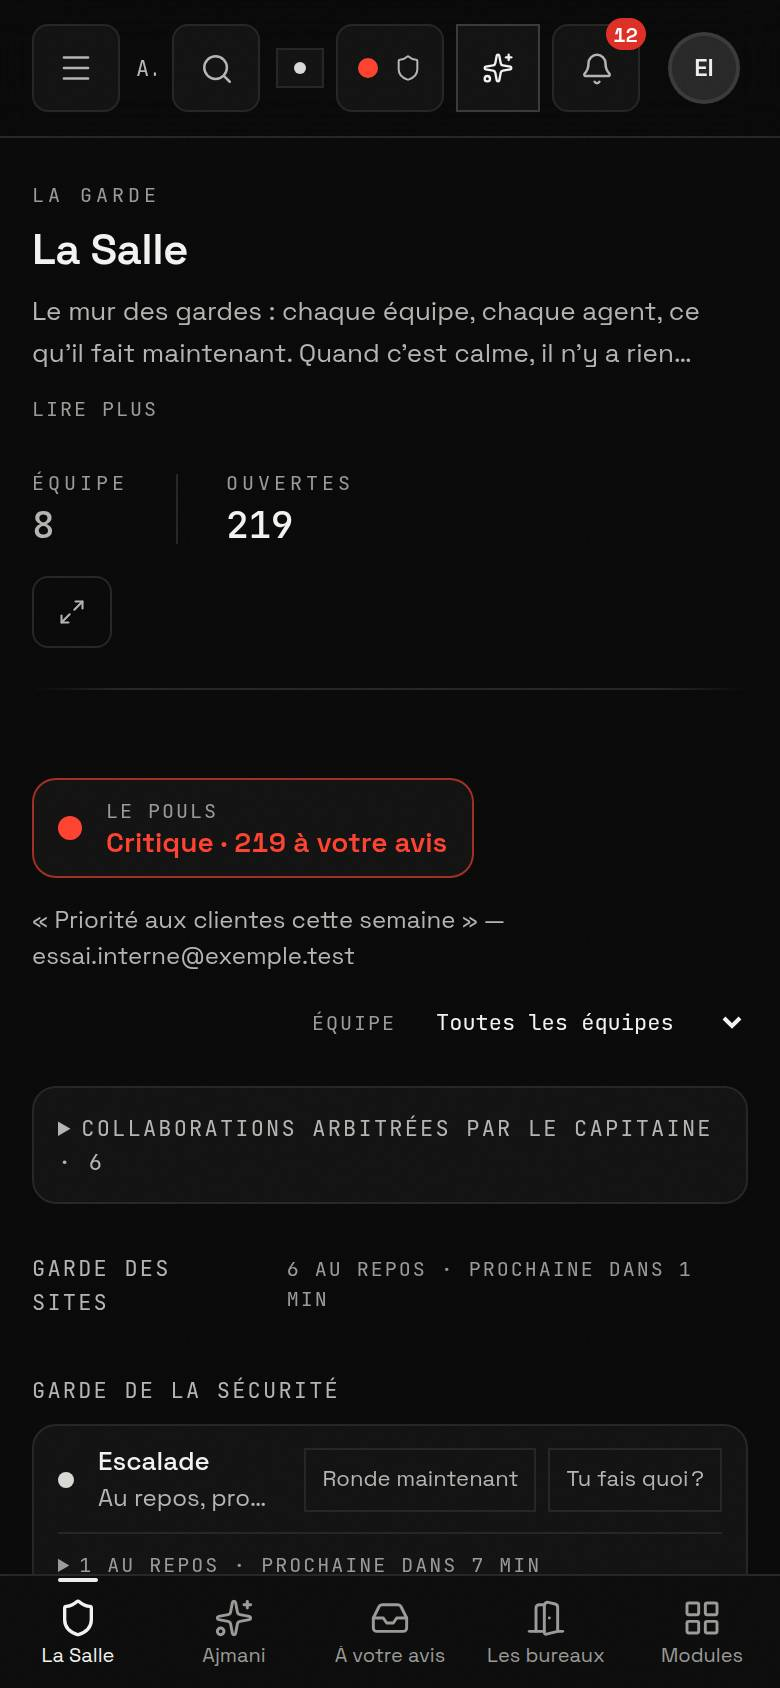
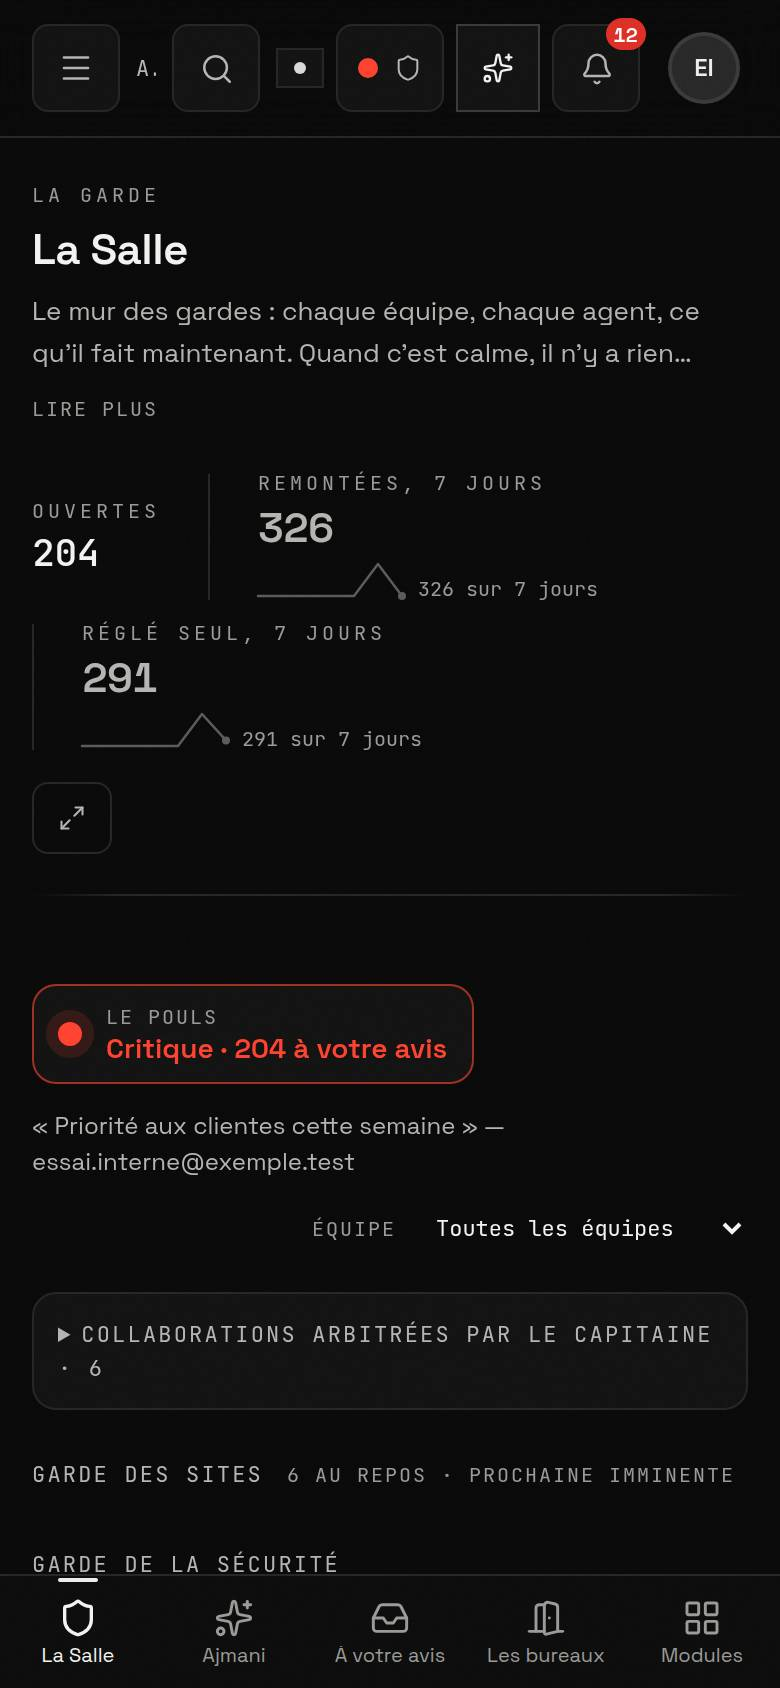
L'Automatique, Bloc 2 (poste) : l'anneau respire, les chiffres de la Salle ont une mémoire, le mouvement dit quelque chose
- PoulsBadge et EtatPoint : le souffle des Signes Vitaux au lieu d'un ping radar ; la couleur glisse quand l'état change
- Le point « en ligne » d'un site bat comme « à jour » au lieu de pinguer en boucle
- Salle : « Remontées, 7 jours » et « Réglé seul, 7 jours » avec leur courbe, comptées par le serveur, jamais simulées (serieFluxComptee, check:vitaux)
- Ajmani : une bulle arrive d'un glissement ; À votre avis : un dossier décidé se replie, « Décidées à l'instant » compte ; prefers-reduced-motion respecté
- La Salle se souvient de l'équipe regardée
- docs/automatique-2026-09-05.md : recensement des décisions prises pour vous, captures après

Claude-Session: https://claude.ai/code/session_01BEf9qY21FAUuZ4ogxRY3s2

diff --git a/src/screens/garde/GardePileScreen.tsx b/src/screens/garde/GardePileScreen.tsx
@@ -1,5 +1,7 @@
 import React, { useCallback, useEffect, useState } from 'react';
 import { Link } from 'react-router-dom';
+import { AnimatePresence, motion, useReducedMotion } from 'framer-motion';
+import { AnimatedCounter } from '../../components/AnimatedCounter';
 import { ScreenHeader } from '../../components/ScreenHeader';
 import { Depliable } from '../../components/Depliable';
 import { GraviteChip } from '../../components/garde/GardeUi';
@@ -31,6 +33,11 @@ export function GardePileScreen() {
   const [libre, setLibre] = useState<Record<string, string>>({});
   /** Ce qu'Ajmani vient de faire — en tête, parce qu'un dossier décidé disparaît de la liste avec sa carte. */
   const [message, setMessage] = useState<string | null>(null);
+  /* La progression visible : ce que VOUS avez décidé depuis l'ouverture de l'écran. Le compteur compte — une micro-satisfaction honnête, jamais un score. */
+  const [decideesSeance, setDecideesSeance] = useState(0);
+  const mouvementReduit = useReducedMotion();
+  /* Un dossier décidé se retire d'un souffle au lieu de disparaître d'un coup — et sans mouvement demandé, il disparaît simplement. */
+  const sortie = mouvementReduit ? {} : { initial: { opacity: 0, y: 6 }, animate: { opacity: 1, y: 0 }, exit: { opacity: 0, height: 0, marginBottom: -12, overflow: 'hidden' as const }, transition: { duration: 0.26, ease: 'easeOut' as const } };
   const charger = useCallback(async () => {
     try {
       if (onglet === 'ouverte') {
@@ -47,20 +54,22 @@ export function GardePileScreen() {
   }, [onglet]);
   useEffect(() => { void charger(); }, [charger]);
   useEffect(() => garde.onGarde((trame) => { if (trame.type.startsWith('garde:remontee') || trame.type === 'garde:mandat') void charger(); }), [charger]);
-  const decider = async (id: string, decision: string) => { await garde.decider(id, decision); await charger(); };
+  const decider = async (id: string, decision: string) => { await garde.decider(id, decision); setDecideesSeance((n) => n + 1); await charger(); };
   const deciderDossier = async (d: GardeDossier, decision: string) => {
     const r = await garde.deciderDossier(d.id, decision);
+    setDecideesSeance((n) => n + r.n);
     setMessage(t('garde.pile.decideDossier', { n: r.n }));
     await charger();
   };
   const confier = async (d: GardeDossier) => {
     if (!d.recommandation) return;
     const r = await garde.donnerMandat({ agent: d.agent, famille: d.famille, decision: d.recommandation });
+    setDecideesSeance((n) => n + r.appliquees);
     setMessage(t('garde.chef.decidezSeulFait', { decision: d.recommandation ?? '', n: r.appliquees, chef: NOM_DU_CHEF }));
     await charger();
   };
 
-  const stats = compte ? [{ label: t('garde.pile.ouvertes'), value: compte.ouvertes, emphasis: compte.critiques > 0 }, { label: t('garde.pile.dossiers'), value: pile?.compte.dossiers ?? '—' }, { label: t('garde.gravite.critique'), value: compte.critiques, emphasis: compte.critiques > 0 }, { label: t('garde.pile.decidees'), value: compte.decidees }] : [];
+  const stats = compte ? [{ label: t('garde.pile.ouvertes'), value: compte.ouvertes, emphasis: compte.critiques > 0 }, { label: t('garde.pile.dossiers'), value: pile?.compte.dossiers ?? '—' }, { label: t('garde.gravite.critique'), value: compte.critiques, emphasis: compte.critiques > 0 }, { label: t('garde.pile.decidees'), value: compte.decidees }, ...(decideesSeance > 0 ? [{ label: t('garde.pile.decideesSeance'), value: <AnimatedCounter value={decideesSeance} /> }] : [])] : [];
 
   return (
     <section className="flex flex-col gap-5">
@@ -79,8 +88,9 @@ export function GardePileScreen() {
         <>
           {pile && pile.dossiers.length === 0 && !erreur && <p className="font-mono text-xs text-text-muted">{t('garde.pile.vide')}</p>}
           <ol className="flex flex-col gap-3" aria-label={t('garde.pile.dossiers')}>
+            <AnimatePresence initial={false}>
             {pile?.dossiers.map((d) => (
-              <li key={d.id} data-dossier={d.famille} className={`flex flex-col gap-2 rounded-xl border bg-surface p-4 ${d.chefDeFile ? 'border-border' : 'ml-4 border-border/70 md:ml-8'}`}>
+              <motion.li key={d.id} {...sortie} data-dossier={d.famille} className={`flex flex-col gap-2 rounded-xl border bg-surface p-4 ${d.chefDeFile ? 'border-border' : 'ml-4 border-border/70 md:ml-8'}`}>
                 <div className="flex flex-wrap items-center gap-2">
                   <GraviteChip gravite={d.gravite} />
                   <span className="font-mono text-[10px] text-text-muted">{t('garde.pile.par', { agent: d.agent })}</span>
@@ -111,8 +121,9 @@ export function GardePileScreen() {
                   {d.tache && <p className="font-mono text-[10px] text-text-muted">{t('garde.pile.tache')}</p>}
                   {d.chefDeFile && d.memeOrg > 0 && <p className="font-mono text-[10px] text-text-muted">{t('garde.pile.aussi')} · {d.memeOrg}</p>}
                 </div>
-              </li>
+              </motion.li>
             ))}
+            </AnimatePresence>
           </ol>
         </>
       ) : (

diff --git a/src/screens/garde/GardeSalleScreen.tsx b/src/screens/garde/GardeSalleScreen.tsx
@@ -5,6 +5,7 @@ import { StaggerGroup, StaggerItem } from '../../components/Stagger';
 import { AgentTuile, PoulsBadge } from '../../components/garde/GardeUi';
 import { garde } from '../../lib/garde';
 import { relativeTime, dansTemps } from '../../lib/time';
+import { serieFluxComptee } from '../../lib/serieVitale';
 import { useLangue } from '../../i18n';
 import type { GardeAgent, GardeJournalEntree, GardeSalle } from '../../shared/garde';
 
@@ -22,7 +23,9 @@ export function GardeSalleScreen() {
   const [salle, setSalle] = useState<GardeSalle | null>(null);
   const [journal, setJournal] = useState<GardeJournalEntree[]>([]);
   const [erreur, setErreur] = useState<string | null>(null);
-  const [equipe, setEquipe] = useState<string>('toutes');
+  /* L'équipe regardée hier est l'équipe regardée aujourd'hui : le filtre se souvient, personne ne le rechoisit à chaque ouverture. */
+  const [equipe, setEquipeBrut] = useState<string>(() => { try { return window.localStorage.getItem('amn.garde.salle.equipe') || 'toutes'; } catch { return 'toutes'; } });
+  const setEquipe = (e: string) => { setEquipeBrut(e); try { window.localStorage.setItem('amn.garde.salle.equipe', e); } catch { /* sans mémoire locale, le filtre repart de « toutes » */ } };
   const [plein, setPlein] = useState(false);
 
   const charger = useCallback(async () => {
@@ -51,6 +54,19 @@ export function GardeSalleScreen() {
     return () => document.removeEventListener('fullscreenchange', onChange);
   }, []);
 
+  /* Les chiffres à mémoire : « ouvertes » est un stock sans historique (nombre seul) ; les remontées et ce que la Garde a réglé seule sont des flux, comptés par jour côté serveur. */
+  const stats = useMemo(() => {
+    if (!salle) return [];
+    const maintenant = new Date();
+    const remontees = salle.series ? serieFluxComptee(salle.series.remontees, 7, maintenant) : undefined;
+    const reglees = salle.series ? serieFluxComptee(salle.series.reglees, 7, maintenant) : undefined;
+    return [
+      { label: t('garde.pile.ouvertes'), value: salle.pouls.compte.ouvertes, emphasis: salle.pouls.compte.critiques > 0 },
+      { label: t('garde.salle.remontees7'), value: remontees?.delta ?? '—', brut: remontees?.delta, serie: remontees, title: t('garde.salle.remontees7.aide') },
+      { label: t('garde.salle.reglees7'), value: reglees?.delta ?? '—', brut: reglees?.delta, serie: reglees, title: t('garde.salle.reglees7.aide') },
+    ];
+  }, [salle, t]);
+
   const equipes = useMemo(() => (salle ? salle.equipes.filter((e) => equipe === 'toutes' || e.key === equipe) : []), [salle, equipe]);
   // Les collaborations se lisent à part : le journal des rondes les enterrerait en quelques minutes.
   const [collaborations, setCollaborations] = useState<GardeJournalEntree[]>([]);
@@ -67,7 +83,7 @@ export function GardeSalleScreen() {
 
   return (
     <section className="flex flex-col gap-5" id="garde-salle">
-      <ScreenHeader eyebrow={t('garde.surtitre')} title={t('garde.salle.titre')} description={t('garde.salle.description')} stats={salle ? [{ label: t('garde.salle.equipe'), value: salle.equipes.length }, { label: t('garde.pile.ouvertes'), value: salle.pouls.compte.ouvertes, emphasis: salle.pouls.compte.critiques > 0 }] : []}>
+      <ScreenHeader eyebrow={t('garde.surtitre')} title={t('garde.salle.titre')} description={t('garde.salle.description')} stats={stats}>
         <button
           type="button"
           onClick={() => { const el = document.getElementById('garde-salle'); if (document.fullscreenElement) void document.exitFullscreen(); else void el?.requestFullscreen?.(); }}

diff --git a/src/components/garde/GardeUi.tsx b/src/components/garde/GardeUi.tsx
@@ -27,8 +27,9 @@ export function EtatPoint({ etat, actif = true, size = 8 }: { etat: GardeAgent['
   const classe = !actif ? 'bg-text-muted' : etat === 'ronde' ? 'bg-accent' : etat === 'trouve' ? 'bg-warning' : etat === 'echec' ? 'bg-danger' : 'bg-success';
   return (
     <span className="relative inline-flex flex-shrink-0" style={{ width: size, height: size }} aria-hidden>
-      {actif && etat === 'ronde' && <span className={`absolute inset-0 rounded-full ${classe} opacity-60 motion-safe:animate-ping`} />}
-      <span className={`relative inline-flex h-full w-full rounded-full ${classe}`} />
+      {/* En ronde, le point respire (le souffle des Signes Vitaux) ; il ne « pingue » pas — un radar qui balaie dit « démo », un souffle dit « vivant ». */}
+      {actif && etat === 'ronde' && <span className={`sv-souffle-tendu absolute -inset-1 rounded-full ${classe}`} />}
+      <span className={`relative inline-flex h-full w-full rounded-full transition-colors duration-700 ${classe}`} />
     </span>
   );
 }
@@ -39,10 +40,11 @@ export function PoulsBadge({ pouls, compact = false }: { pouls: GardePouls | nul
   const classe = pouls.niveau === 'critique' ? 'border-danger/60 text-danger' : pouls.niveau === 'attention' ? 'border-warning/60 text-text-primary' : 'border-success/50 text-text-primary';
   const point = pouls.niveau === 'critique' ? 'bg-danger' : pouls.niveau === 'attention' ? 'bg-warning' : 'bg-success';
   return (
-    <div className={`flex items-center gap-3 rounded-xl border bg-surface px-3 py-2 ${classe}`} aria-label={t('garde.pouls.titre')}>
+    <div className={`flex items-center gap-3 rounded-xl border bg-surface px-3 py-2 transition-colors duration-700 ${classe}`} aria-label={t('garde.pouls.titre')} data-pouls={pouls.niveau}>
+      {/* L'anneau qui respire : quatre secondes au calme, plus court quand quelque chose attend — la même respiration que le rail. La couleur glisse quand l'état change au lieu de sauter. */}
       <span className="relative inline-flex h-3 w-3" aria-hidden>
-        {pouls.niveau !== 'calme' && <span className={`absolute inset-0 rounded-full ${point} opacity-50 motion-safe:animate-ping`} />}
-        <span className={`relative inline-flex h-3 w-3 rounded-full ${point}`} />
+        <span className={`absolute -inset-1.5 rounded-full transition-colors duration-700 ${point} ${pouls.niveau === 'calme' ? 'sv-souffle-calme' : 'sv-souffle-tendu'}`} />
+        <span className={`relative inline-flex h-3 w-3 rounded-full transition-colors duration-700 ${point}`} />
       </span>
       <div className="min-w-0">
         <p className="font-mono text-[10px] uppercase tracking-widest text-text-muted">{t('garde.pouls.titre')}</p>

diff --git a/src/screens/garde/GardeAjmaniScreen.tsx b/src/screens/garde/GardeAjmaniScreen.tsx
@@ -1,5 +1,6 @@
 import React, { useCallback, useEffect, useRef, useState } from 'react';
 import { Link } from 'react-router-dom';
+import { motion, useReducedMotion } from 'framer-motion';
 import { ScreenHeader } from '../../components/ScreenHeader';
 import { PoulsBadge } from '../../components/garde/GardeUi';
 import { garde } from '../../lib/garde';
@@ -38,6 +39,9 @@ export function GardeAjmaniScreen() {
   const [busy, setBusy] = useState(false);
   const [catalogue, setCatalogue] = useState(false);
   const bas = useRef<HTMLDivElement | null>(null);
+  /* Une bulle qui arrive glisse d'un souffle ; sans mouvement demandé, elle apparaît simplement. */
+  const mouvementReduit = useReducedMotion();
+  const arrivee = mouvementReduit ? {} : { initial: { opacity: 0, y: 6 }, animate: { opacity: 1, y: 0 }, transition: { duration: 0.22, ease: 'easeOut' as const } };
 
   const charger = useCallback(async () => {
     try {
@@ -135,7 +139,7 @@ export function GardeAjmaniScreen() {
               </span>
             </li>
             {fil.map((m, i) => (
-              <li key={`f${i}`} className={`max-w-[85%] whitespace-pre-line rounded-lg border px-3 py-2 text-[13px] leading-relaxed ${m.de === 'moi' ? 'self-end border-border-strong bg-bg text-text-primary' : 'self-start border-border bg-surface text-text-primary'}`} data-chef-reponse={m.de === 'chef' ? '' : undefined}>
+              <motion.li key={`f${i}`} {...arrivee} className={`max-w-[85%] whitespace-pre-line rounded-lg border px-3 py-2 text-[13px] leading-relaxed ${m.de === 'moi' ? 'self-end border-border-strong bg-bg text-text-primary' : 'self-start border-border bg-surface text-text-primary'}`} data-chef-reponse={m.de === 'chef' ? '' : undefined}>
                 {m.texte}
                 {m.confirmation && m.original && (
                   <span className="mt-2 flex gap-2">
@@ -143,7 +147,7 @@ export function GardeAjmaniScreen() {
                     <button type="button" onClick={() => setFil((f) => [...f, { de: 'chef', texte: t('garde.bureau.annuler') }])} className="border border-border px-2.5 py-1 text-xs text-text-muted">{t('garde.bureau.annuler')}</button>
                   </span>
                 )}
-              </li>
+              </motion.li>
             ))}
           </ol>
         )}

diff --git a/scripts/check-vitaux.ts b/scripts/check-vitaux.ts
@@ -50,11 +50,12 @@ interface Serie {
   nature: 'flux' | 'stock';
 }
 
-const { cleJour, derniersJours, serieFlux, serieStock, phraseDelta, litLeNombre, traceSerie } =
+const { cleJour, derniersJours, serieFlux, serieFluxComptee, serieStock, phraseDelta, litLeNombre, traceSerie } =
   await loadFromSrc<{
     cleJour: (d: Date) => string;
     derniersJours: (n: number, m: Date) => string[];
     serieFlux: (dates: unknown[], jours: number, m: Date) => Serie;
+    serieFluxComptee: (comptes: Record<string, number>, jours: number, m: Date) => Serie;
     serieStock: (dates: unknown[], jours: number, m: Date) => Serie;
     phraseDelta: (s: Serie) => string;
     litLeNombre: (n: number) => string;
@@ -105,6 +106,16 @@ dit('un flux compte par jour, dans la fenêtre seulement', () => {
   assert.equal(s.points[6].valeur, 2, 'deux aujourd’hui');
   assert.equal(s.points[3].valeur, 1, 'un le 12');
   assert.equal(s.delta, 3, 'le delta est le total de la fenêtre — le 1er mars n’y est pas');
+});
+
+dit('un flux déjà compté par le serveur garde la fenêtre : jour absent = zéro, hors fenêtre = rien', () => {
+  const s = serieFluxComptee({ '2026-03-15': 2, '2026-03-12': 1, '2026-03-01': 9, '2026-03-13': -3 }, 7, M);
+  assert.equal(s.points.length, 7);
+  assert.equal(s.points[6].valeur, 2, 'deux aujourd’hui');
+  assert.equal(s.points[3].valeur, 1, 'un le 12');
+  assert.equal(s.points[4].valeur, 0, 'un compte négatif ne se dessine pas');
+  assert.equal(s.delta, 3, 'le 1er mars n’est pas dans la fenêtre');
+  assert.equal(s.nature, 'flux');
 });
 
 dit('une date invalide ne compte pas — plutôt manquer que mentir', () => {

diff --git a/src/lib/serieVitale.ts b/src/lib/serieVitale.ts
@@ -95,6 +95,25 @@ export function serieFlux(
 }
 
 /**
+ * FLUX DÉJÀ COMPTÉ — quand le serveur a fait le compte par jour (la Garde ne
+ * renvoie pas cent mille dates, elle renvoie sept nombres). Même fenêtre, même
+ * honnêteté : un jour absent vaut zéro, un jour hors fenêtre n'existe pas.
+ */
+export function serieFluxComptee(
+  comptes: Readonly<Record<string, number>>,
+  jours: number,
+  maintenant: Date,
+): SerieVitale {
+  const fenetre = derniersJours(jours, maintenant);
+  const points = fenetre.map((jour) => ({ jour, valeur: Math.max(0, Math.round(Number(comptes[jour]) || 0)) }));
+  return {
+    points,
+    delta: points.reduce((somme, p) => somme + p.valeur, 0),
+    nature: 'flux',
+  };
+}
+
+/**
  * STOCK — le cumul des créations, jour par jour.
  *
  * Chaque point vaut « combien existaient à la fin de ce jour-là », en ne

diff --git a/src/i18n/fr.ts b/src/i18n/fr.ts
@@ -1803,6 +1803,11 @@ export const fr: Dictionnaire = {
   'garde.salle.pleinEcran': 'Plein écran',
   'garde.salle.quitterPleinEcran': 'Quitter le plein écran',
   'garde.salle.equipe': 'Équipe',
+  'garde.salle.remontees7': 'Remontées, 7 jours',
+  'garde.salle.remontees7.aide': 'Ce que la Garde vous a soumis ces sept derniers jours, jour par jour.',
+  'garde.salle.reglees7': 'Réglé seul, 7 jours',
+  'garde.salle.reglees7.aide': 'Ce que la Garde a réglé sans vous ces sept derniers jours, jour par jour.',
+  'garde.pile.decideesSeance': 'Décidées à l’instant',
   'garde.salle.toutes': 'Toutes les équipes',
   'garde.salle.derniere': 'Dernière ronde',
   'garde.salle.prochaine': 'Prochaine',

diff --git a/src/i18n/en.ts b/src/i18n/en.ts
@@ -1810,6 +1810,11 @@ export const en = {
   'garde.salle.pleinEcran': 'Full screen',
   'garde.salle.quitterPleinEcran': 'Leave full screen',
   'garde.salle.equipe': 'Team',
+  'garde.salle.remontees7': 'Raised, 7 days',
+  'garde.salle.remontees7.aide': 'What the Watch brought to you over the last seven days, day by day.',
+  'garde.salle.reglees7': 'Settled alone, 7 days',
+  'garde.salle.reglees7.aide': 'What the Watch settled without you over the last seven days, day by day.',
+  'garde.pile.decideesSeance': 'Decided just now',
   'garde.salle.toutes': 'All teams',
   'garde.salle.derniere': 'Last patrol',
   'garde.salle.prochaine': 'Next',

diff --git a/src/components/site-panel/SiteDetailPanel.tsx b/src/components/site-panel/SiteDetailPanel.tsx
@@ -196,9 +196,9 @@ function StatTile({
 
 function LivePulse() {
   return (
+    /* Le point qui bat (Signes Vitaux) : « à jour », pas un radar en boucle. */
     <span className="relative flex h-2 w-2">
-      <span className="absolute inline-flex h-full w-full animate-ping rounded-full bg-success opacity-75" />
-      <span className="relative inline-flex h-2 w-2 rounded-full bg-success" />
+      <span className="live-dot relative inline-flex h-2 w-2 rounded-full bg-success" />
     </span>
   );
 }

diff --git a/src/shared/garde.ts b/src/shared/garde.ts
@@ -60,6 +60,8 @@ export interface GardeSalle {
   priorite: { texte: string; par: string; at: string; jusqua: string } | null;
   reglages: { heureTour: number; silence?: { de: number; a: number } };
   lexique: string;
+  /** Les sept derniers jours comptés par le serveur (clé YYYY-MM-DD → n) : la mémoire des chiffres de l'en-tête. */
+  series?: { remontees: Record<string, number>; reglees: Record<string, number> };
 }
 export interface GardeJournalEntree {
   id: string;

diff --git a/docs/automatique-2026-09-05.md b/docs/automatique-2026-09-05.md
@@ -1,0 +1,32 @@
+# L'Automatique — rapport de chantier (en cours)
+
+Chantier « de la voiture manuelle à l'automatique », nuit du 5 au 6 septembre 2026.
+Point de départ : branches `avant-automatique` sur les deux dépôts.
+
+## Bloc 2 — Futurisme sobre
+
+### Recensement : les décisions que l'écran prenait pour vous, et celles qu'il prend maintenant
+
+| Décision | Avant | Maintenant |
+|---|---|---|
+| Quelle équipe regarder dans la Salle | à rechoisir à chaque ouverture | mémorisée sur le poste (« amn.garde.salle.equipe ») |
+| Que faire ensuite dans la conversation avec Ajmani | à deviner, catalogue ouvert | ≤ 3 suites proposées après chaque réponse (Bloc 3) |
+| Quoi lire d'abord dans la Tour | tout, à plat | exceptions d'abord, la Garde de fond (Bloc 0) |
+| D'où vient un chiffre de la Salle | un nombre nu | sa courbe sur sept jours, comptée par le serveur, jamais simulée |
+| Un dossier décidé disparaît | d'un coup, on perd le fil | il se retire d'un souffle ; « Décidées à l'instant » compte ce que vous venez de faire |
+| Quel poste choisir à la première ouverture | carte proposée, rien de pré-choisi | inchangé : rien dans les données ne permet de deviner sans se tromper, on ne pré-coche pas au hasard |
+
+### Ce qui change à l'écran
+
+- **L'anneau qui respire** : le pouls (Salle, Ajmani, Tour) respire au rythme du rail — quatre secondes au calme, plus court quand quelque chose attend. Plus aucun « ping » radar : ni sur le pouls, ni sur un garde en ronde, ni sur un site en ligne (le point « à jour » des Signes Vitaux le remplace). La couleur glisse en 700 ms quand l'état change au lieu de sauter.
+- **Les chiffres à mémoire** : l'en-tête de la Salle porte « Remontées, 7 jours » et « Réglé seul, 7 jours » avec leur courbe fantôme. Le serveur compte par jour (`/v1/garde/salle` → `series`) ; le poste ne fabrique aucun historique (`serieFluxComptee`, gardée par `check:vitaux`).
+- **Le mouvement qui dit quelque chose** : une bulle d'Ajmani arrive d'un glissement de six pixels ; un dossier décidé se replie. `prefers-reduced-motion` : les deux deviennent une simple apparition/disparition (`useReducedMotion`), et le souffle devient une intensité fixe.
+- **Ludique, sérieusement** : dans « À votre avis », un relevé « Décidées à l'instant » compte ce que vous avez décidé depuis l'ouverture de l'écran — un compteur qui compte, pas un score, pas de confettis.
+- **Parole** : une organisation disparue n'est plus nommée par son identifiant (« chez ba1426c2-… ») : on ne dit rien plutôt qu'un identifiant.
+
+### Mesure
+
+Captures dans `docs/captures/automatique-2026-09-05/apres-interne/` (poste et téléphone).
+Auto-notation : Salle 4/5 (deux fois), À votre avis 4/5, Ajmani 4/5. « Est-ce que ça donne envie de lire ? » — la Salle et la pile, oui ; Ajmani reste dépendant de la longueur de ses réponses (voir Bloc 5).
+
+Limite dite : le souffle et le glissement ne se voient pas sur une capture fixe ; ils se vérifient en ouvrant l'écran (classes `sv-souffle-*`, `motion.li`).
